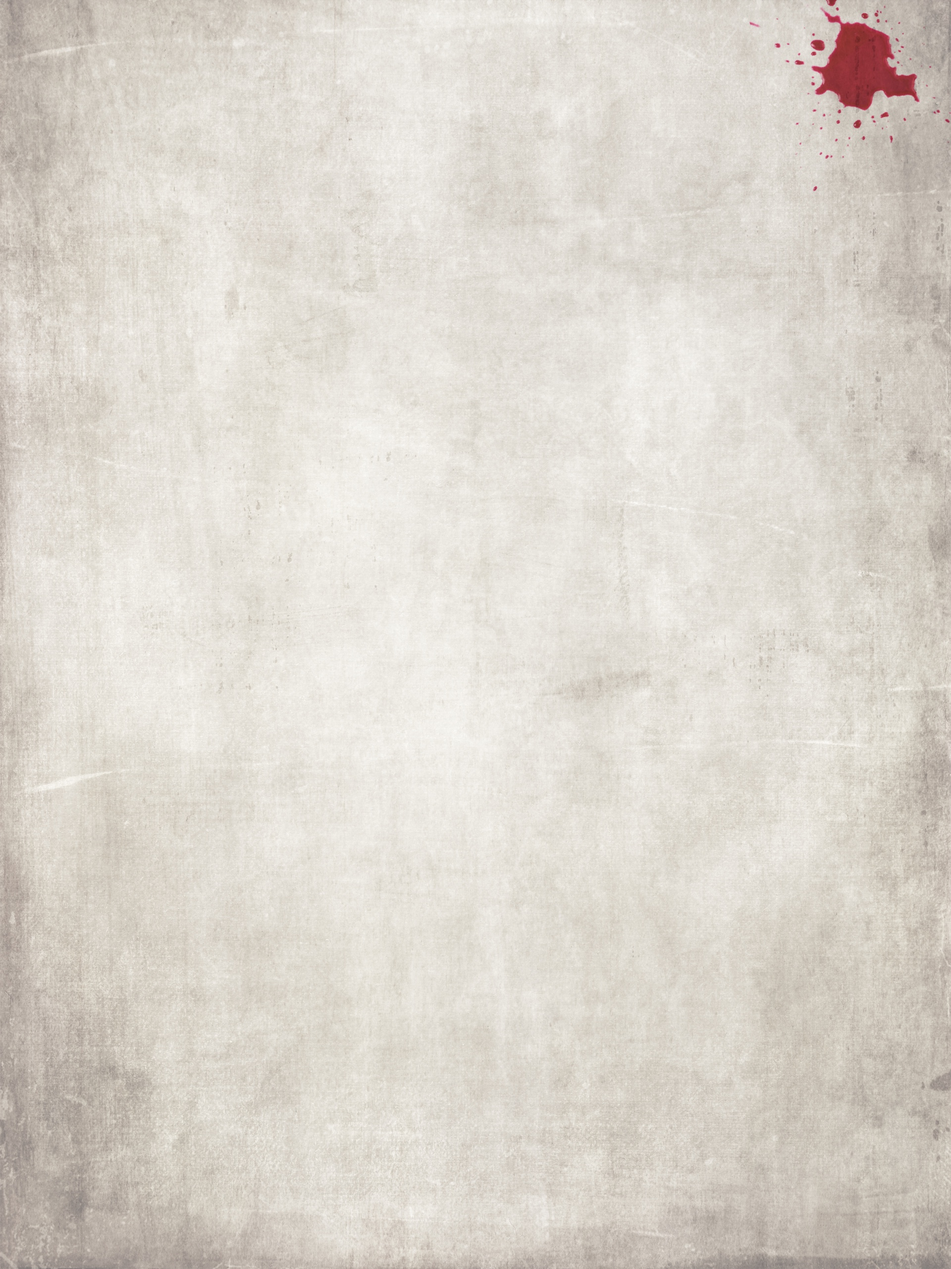
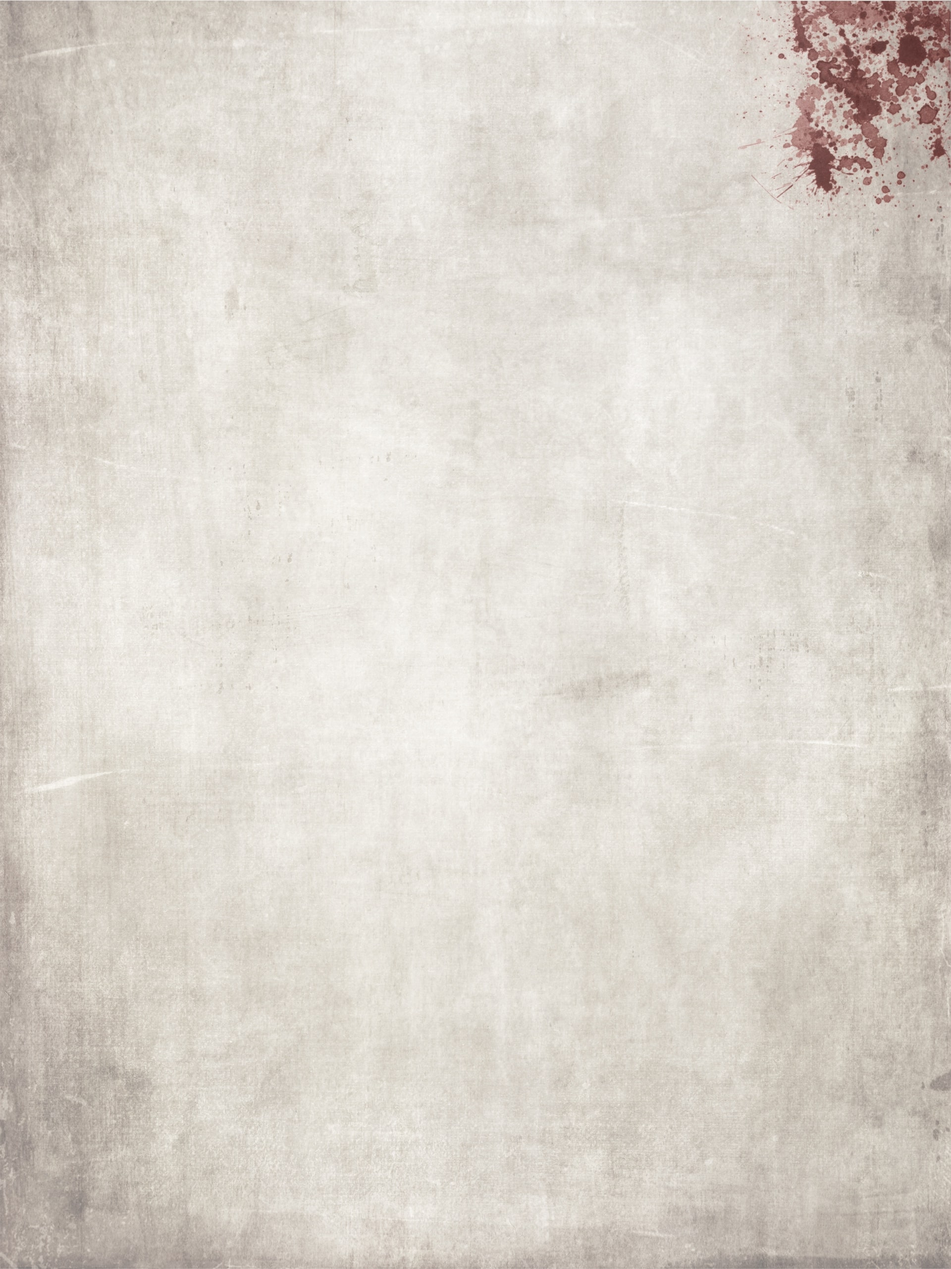
styles: few indent fixes

Changed region(s): [[0.8125, 0.0, 1.0, 0.1562]]

diff --git a/src/components/HeaderComponent.vue b/src/components/HeaderComponent.vue
@@ -1,6 +1,8 @@
 <template lang="pug">
   header.header-box.double
     .container
+      .editorial
+        p.pad.rye Chile, Diciembre de 1881
       .row
         .col-12.text-center
           b-img.seal.mx-auto.d-block(alt="Cousiño", fluid, :src="require('@/assets/images/seal.png')")
@@ -15,22 +17,24 @@
       .row
         .col-12.mb-5.mt-2.justify-content-center.align-content-center
           blockquote.text-center
-            i Neque porro quisquam est qui dolorem ipsum quia dolor sit amet, consectetur, adipisci velit...
+            i "Cabalga a Petorca, manda un telegrama a Valparaíso. Notifica a Francia que ha muerto mi hermano Matías...."
+            p.blockquote-footer Matuncho Cousiño
+
       .row
-        .col-6.align-content-center
+        .col-12.col-md-6.align-content-center
           img.border-dark.border.img-fluid(src="@/assets/images/valpo1880.jpg")
           small
             i Valparaíso (1880).
-        .col-6
+        .col-12.col-md-6
           .row
-            .col-12.d-flex.justify-content-center.align-content-center
+            .col-12.justify-content-center.align-content-center
               .citation
                 h2 "Hierro Viejo es un proyecto de innovación cultural cinematográfica"
           .row
             .col-12
               .text-right
                 a(v-b-toggle href="#arguments" @click.prevent) Seguir leyendo
-        .col-12.d-flex.justify-content-center.align-content-center.mb-4.border-bottom
+        .col-12.text-center.mb-4.border-top
           img.fluid(svg-inline, src='@/assets/svg/flourisch.svg', alt='Ornament', width='100px')
       b-collapse#arguments
         .row
@@ -38,18 +42,16 @@
             .pad.text-center
               span.headline.rye.border-top.border-bottom Innovación
             .pad.mt-3.mb-3
-              p Si hoy miramos la historia del cine, nos daremos cuenta que hitos importantes han facilitado la forma de narrar una historia. El proceso de Schüfftan, el uso del Mate, del Chroma, y recientemente; sets con pantallas LED de alta resolución.
-              p Si bien el concepto no es algo nuevo, lo ingenioso son los fondos generados en tiempo real a través del popular motor para videojuegos: Unreal Engine.
-              p Visualmente, esto permite que elementos del set sean afectados por la luz reflejada del entorno, ahorrando tiempo de postproducción y entregando nuevas herramientas para enfocar el trabajo creativo hacia la idea principal de la pieza.
-              p Logísticamente, resulve temas
+              p Lorem ipsum dolor sit amet, consectetur adipiscing elit. Phasellus vel tincidunt risus. Fusce lacinia id eros nec efficitur. Vivamus eu hendrerit tellus. Aliquam dictum metus elit, vel laoreet purus ultricies vel. Proin ultricies sapien tellus, nec molestie velit condimentum sed. Sed ac tortor sed lorem pellentesque euismod ut ac est. Maecenas consequat elementum nunc non eleifend. Ut tristique id massa id porta. Fusce condimentum sem neque, eget faucibus augue condimentum sed. Sed consectetur orci non augue luctus accumsan eget vitae nisi. Integer fringilla ligula ac urna vestibulum, sit amet pretium eros posuere.
+              p Sed scelerisque sapien in augue egestas pretium. Aliquam ultricies ante ac dignissim consequat. Nunc vehicula ut justo vel ullamcorper. Class aptent taciti sociosqu ad litora torquent per conubia nostra, per inceptos himenaeos. Donec at lorem a libero elementum tristique. Aenean tempor dolor nec sem volutpat varius. Duis blandit eleifend nisl, nec sagittis augue convallis venenatis. Vivamus nec augue a ex gravida rutrum at eget lacus. Curabitur blandit eros non dignissim lobortis.
           .col-12.col-lg-6.border-left
             .pad.text-center
               span.headline.rye.border-top.border-bottom Cultura
             .row.mt-3.mb-3
-              .pad.col-8
-                p La historia de esta película ocurre en el contexto de Chile de fines del siglo XIX, en la región de Valparaíso.
-              .col-4.text-center
-                img.fluid.bw(svg-inline, src='@/assets/svg/kultrun.svg', alt='Ornament', width='100px')
+              .pad.col-12.text-justify
+                img.float-right.img-responsive.bw.ml-3.mb-3(svg-inline, src='@/assets/svg/kultrun.svg', alt='Ornament', width='100px')
+                p Lorem ipsum dolor sit amet, consectetur adipiscing elit. Phasellus vel tincidunt risus. Fusce lacinia id eros nec efficitur. Vivamus eu hendrerit tellus. Aliquam dictum metus elit, vel laoreet purus ultricies vel. Proin ultricies sapien tellus, nec molestie velit condimentum sed. Sed ac tortor sed lorem pellentesque euismod ut ac est. Maecenas consequat elementum nunc non eleifend. Ut tristique id massa id porta. Fusce condimentum sem neque, eget faucibus augue condimentum sed. Sed consectetur orci non augue luctus accumsan eget vitae nisi. Integer fringilla ligula ac urna vestibulum, sit amet pretium eros posuere.
+                p Sed scelerisque sapien in augue egestas pretium. Aliquam ultricies ante ac dignissim consequat. Nunc vehicula ut justo vel ullamcorper. Class aptent taciti sociosqu ad litora torquent per conubia nostra, per inceptos himenaeos. Donec at lorem a libero elementum tristique. Aenean tempor dolor nec sem volutpat varius. Duis blandit eleifend nisl, nec sagittis augue convallis venenatis. Vivamus nec augue a ex gravida rutrum at eget lacus. Curabitur blandit eros non dignissim lobortis.
 </template>
 
 <script>
@@ -63,6 +65,15 @@ export default {
 
 <!-- Add "scoped" attribute to limit CSS to this component only -->
 <style scoped lang="scss">
+.editorial{
+  opacity: 0.7;
+  position: absolute;
+  margin: 50px 0;
+  p{
+    padding: 20px;
+    border: double;
+  }
+}
 .header-box{
   width: 100%;
   min-height: 100vh;

diff --git a/src/components/SynopsisComponent.vue b/src/components/SynopsisComponent.vue
@@ -6,7 +6,7 @@
           .n-img
             img.border-dark.border.img-fluid(src='@/assets/images/falcato.jpg' alt="Synopsis Image")
           small
-            i Hechos biográficos de Pancho Falcato, del bravo maloqueador Marcos Saldías i de muchos otros presos célebres. Chile (1877).
+            i Hechos biográficos de Pancho Falcato, del bravo maloqueador Marcos Saldías i de muchos otros presos célebres (1877).
         .col-12.col-md-9
           .row.text-justify
             .col-12.col-md-7.border-left.border-right
@@ -23,8 +23,11 @@
                 i Delincuentes, bandoleros y montoneros : violencia social en el espacio rural chileno (1850-1870).
               .pad.mt-3
                 p Lorem ipsum dolor sit amet, consectetur adipiscing elit. Phasellus vel tincidunt risus. Fusce lacinia id eros nec efficitur. Vivamus eu hendrerit tellus. Aliquam dictum metus elit, vel laoreet purus ultricies vel. Proin ultricies sapien tellus, nec molestie velit condimentum sed. Sed ac tortor sed lorem pellentesque euismod ut ac est.
-        .col-12.d-flex.justify-content-center.align-content-center.mb-4.border-bottom
-          img.fluid(svg-inline, src='@/assets/svg/flourisch.svg', alt='Ornament', width='100px')
+        .col-12.text-center.mb-4.border-bottom
+          img.img-fluid(svg-inline, src='@/assets/svg/flourisch.svg', alt='Ornament', width='100px')
+      .row
+        .col-12
+          img.img-fluid(src='@/assets/images/francia1878.jpg', alt='Ornament')
 </template>
 
 <script>

diff --git a/src/assets/scss/main.scss b/src/assets/scss/main.scss
@@ -104,8 +104,10 @@ a{
   text-transform: uppercase;
 }
 .bg{
-  background-size: inherit;
-  background-position: top center;
+  background: fixed;
+  background-size: cover;
+  background-repeat: no-repeat;
+  background-position: top right;
 }
 .border-right, .border-top, .border-bottom, .border-left{
   border-color: black!important;
